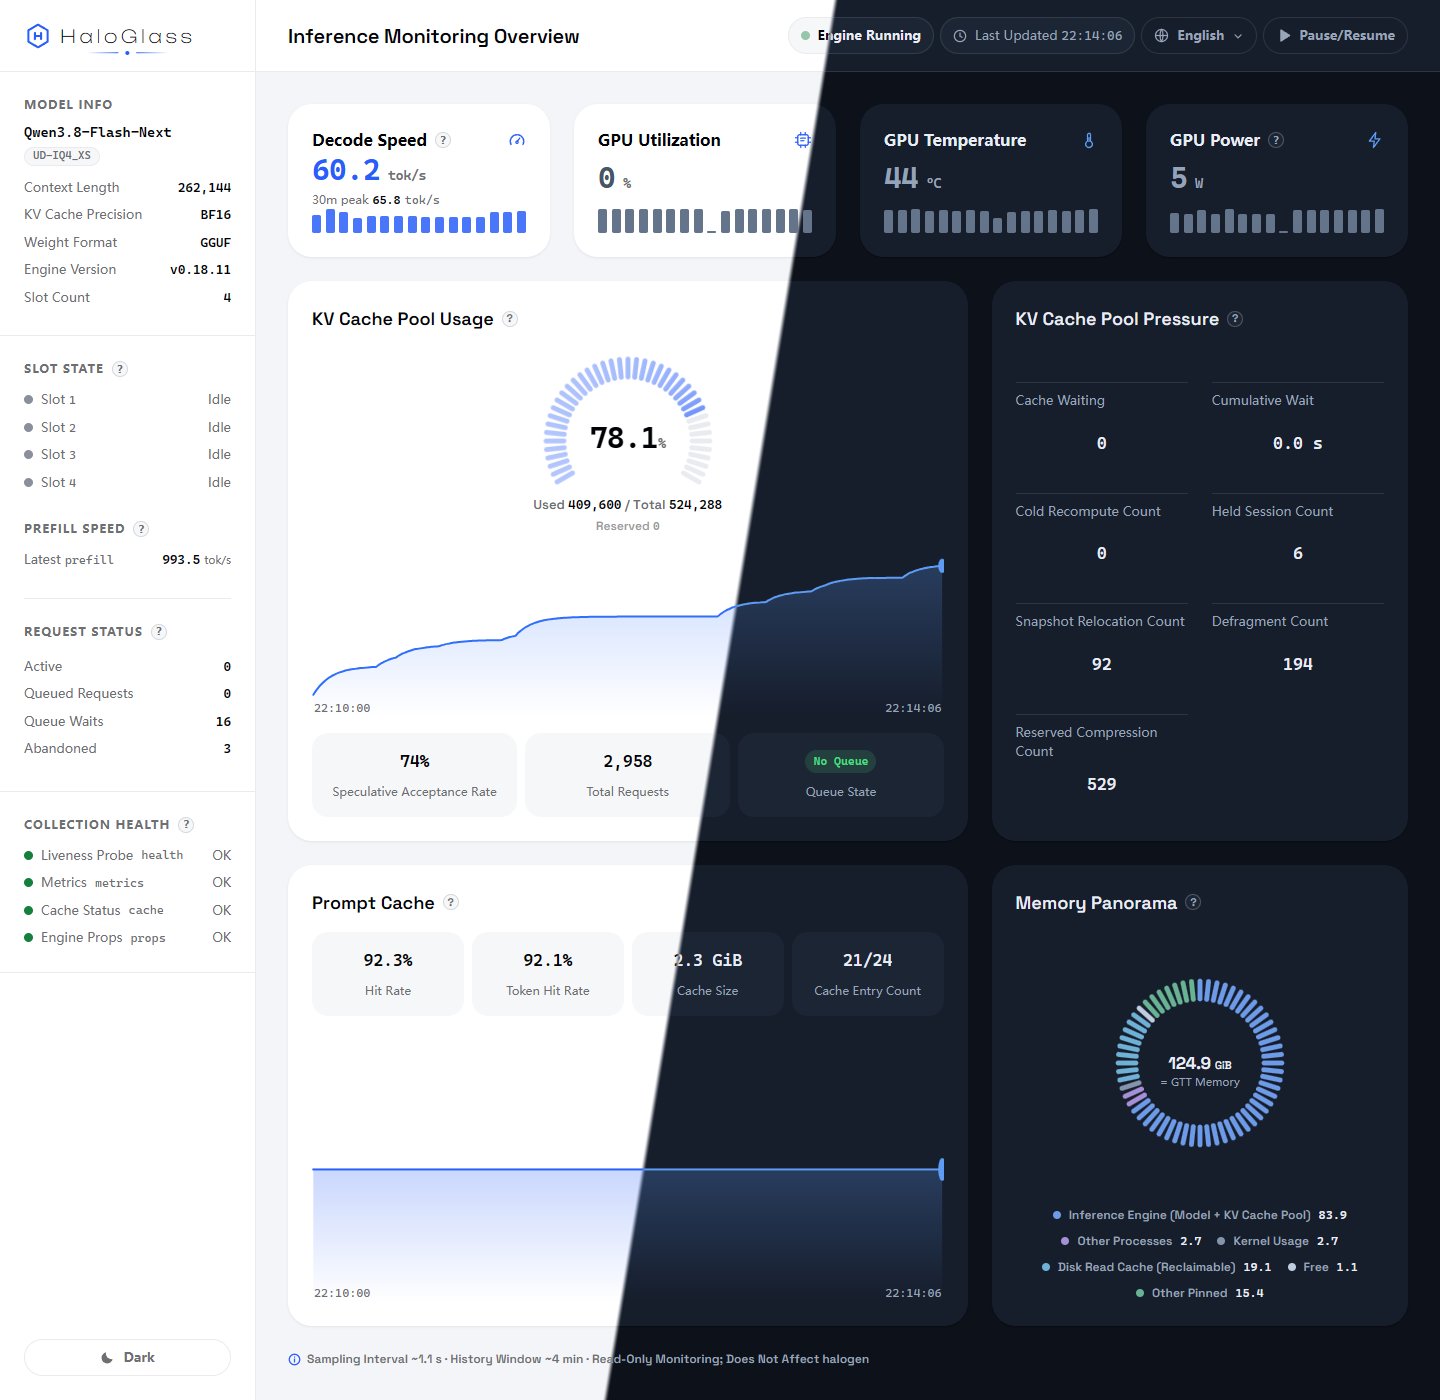
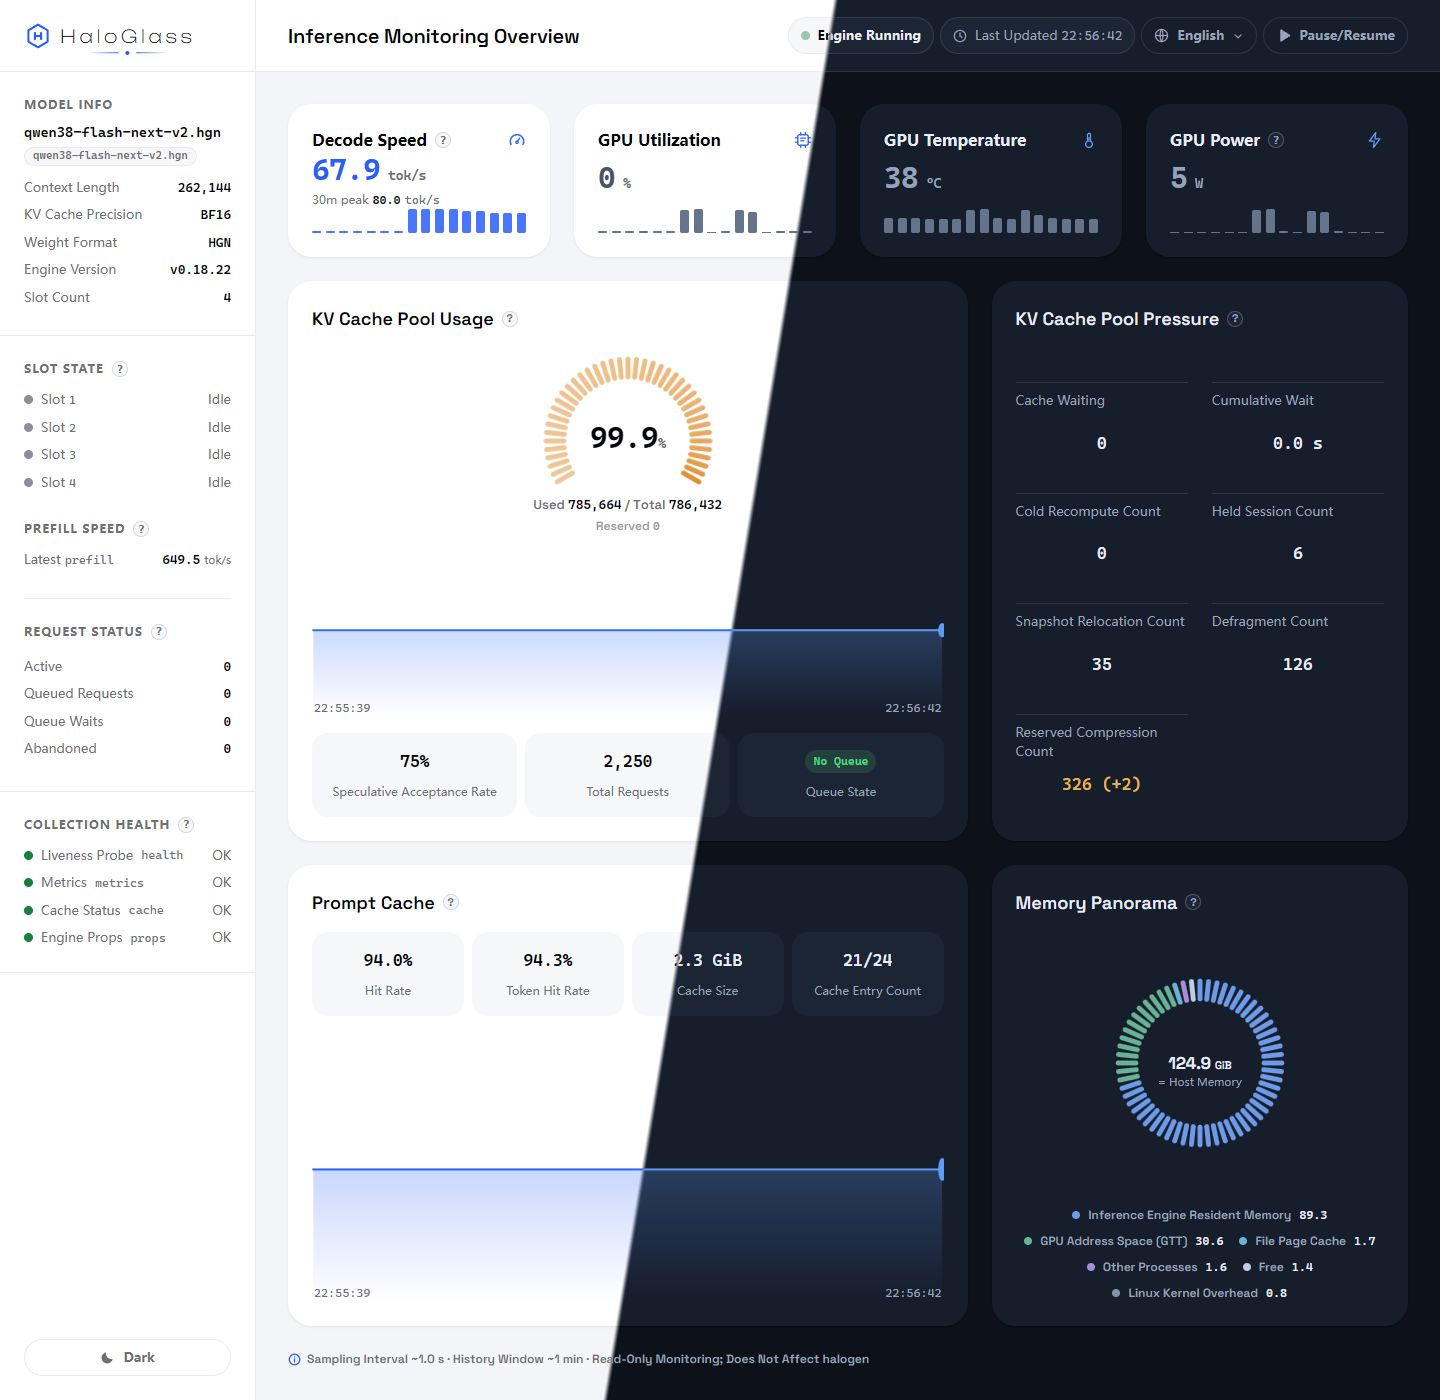
fix(memory-panorama): shorter donut-center label (= Host Memory) to avoid tick overlap, MemTotal definition moved to card help tooltip; refresh hero screenshot (w25 UI, V2 model, live production data)

diff --git a/dash.py b/dash.py
@@ -1144,12 +1144,12 @@ svg.spark{width:100%;height:100%;min-height:0;display:block}
       </div>
       <div class="card" id="c-pano">
         <h2><span data-i18n="memPano">内存全景</span>
-          <button class="qh" type="button" tabindex="0" aria-label="内存全景说明" data-i18n-aria="memPanoAria" data-tip="六段按占用者划分，合计≈总内存（±采样噪声）&#10;GPU 地址空间（GTT）：GPU 驱动为主机内存分配的引擎专用区，与进程驻留内存独立&#10;文件页缓存：内核文件缓存，自动回收，无需干预&#10;可用内存为引擎运行安全余量（MemAvailable 低于 16 GiB 时 halogen 拒绝启动），并非闲置浪费" data-i18n-tip="memPanoTip">?</button>
+          <button class="qh" type="button" tabindex="0" aria-label="内存全景说明" data-i18n-aria="memPanoAria" data-tip="六段按占用者划分，合计≈主机内存总量 MemTotal（±采样噪声）&#10;GPU 地址空间（GTT）：GPU 驱动为主机内存分配的引擎专用区，与进程驻留内存独立&#10;文件页缓存：内核文件缓存，自动回收，无需干预&#10;可用内存为引擎运行安全余量（MemAvailable 低于 16 GiB 时 halogen 拒绝启动），并非闲置浪费" data-i18n-tip="memPanoTip">?</button>
           <span class="badge miss" id="pano-miss" style="visibility:hidden" data-i18n="missMem">内存数据缺失</span></h2>
         <div class="donut" id="pano">
           <div class="prwrap">
             <svg viewBox="0 0 200 200" aria-hidden="true"><g id="pn-ticks"></g></svg>
-            <div class="donut-center"><div class="dn-num"><span id="donut-total" class="skel sm"></span> <span style="font-size:11px;font-weight:600">GiB</span></div><div class="dn-sub" data-i18n="dnSub">= 主机内存（MemTotal）</div></div>
+            <div class="donut-center"><div class="dn-num"><span id="donut-total" class="skel sm"></span> <span style="font-size:11px;font-weight:600">GiB</span></div><div class="dn-sub" data-i18n="dnSub">= 主机内存</div></div>
           </div>
         </div>
         <div class="legend" id="pano-legend"><!-- w25-B：六段图例，渲染时按数值降序重排；tooltip 由 updPano 动态挂 data-tip -->
@@ -1776,11 +1776,11 @@ var I18N={
   promptCacheTip:'Prompt 缓存与内存全景中的「文件页缓存」不同：前者是 halogen 的会话前缀缓存（位于进程内存中），后者是 Linux 内核的文件页缓存（主要为模型查找表）',
  hitRate:'命中率',tokenHitRate:'Token 命中率',cacheSize:'缓存大小',cacheEntries:'缓存条目数',
  memPano:'内存全景',memPanoAria:'内存全景说明',
-  memPanoTip:`六段按占用者划分，合计≈总内存（±采样噪声）
+  memPanoTip:`六段按占用者划分，合计≈主机内存总量 MemTotal（±采样噪声）
 GPU 地址空间（GTT）：GPU 驱动为主机内存分配的引擎专用区，与进程驻留内存独立
 文件页缓存：内核文件缓存，自动回收，无需干预
 可用内存为引擎运行安全余量（MemAvailable 低于 16 GiB 时 halogen 拒绝启动），并非闲置浪费`,
-  missMem:'内存数据缺失',dnSub:'= 主机内存（MemTotal）',
+  missMem:'内存数据缺失',dnSub:'= 主机内存',
   panoEng:'推理引擎驻留内存',panoProc:'其他进程',panoKern:'Linux 内核开销',
   panoRead:'文件页缓存',panoFree:'空闲',panoGtt:'GPU 地址空间（GTT）',
  guideSleep:'模型待命中，开始推理后自动恢复显示数据',
@@ -1854,11 +1854,11 @@ GPU 地址空间（GTT）：GPU 驱动为主机内存分配的引擎专用区，
    promptCacheTip:'Prompt Cache Differs from "File Page Cache" in Memory Panorama: the Former Is halogen’s Session Prefix Cache (in Process Memory); the Latter Is the Linux Kernel’s File Page Cache (Mostly Model Lookup Tables)',
  hitRate:'Hit Rate',tokenHitRate:'Token Hit Rate',cacheSize:'Cache Size',cacheEntries:'Cache Entry Count',
  memPano:'Memory Panorama',memPanoAria:'Memory Panorama Explanation',
-   memPanoTip:`Six segments divided by occupant; sum ≈ total memory (± sampling noise)
+   memPanoTip:`Six segments divided by occupant; sum ≈ total host memory MemTotal (± sampling noise)
  GPU Address Space (GTT): engine-dedicated region of host memory allocated by the GPU driver, accounted independently of process resident memory
  File Page Cache: kernel file cache, reclaimed automatically, no intervention required
  Available memory is the engine’s safety margin (halogen refuses to start when MemAvailable falls below 16 GiB), not idle waste`,
-  missMem:'Memory Data Unavailable',dnSub:'= Host Memory (MemTotal)',
+  missMem:'Memory Data Unavailable',dnSub:'= Host Memory',
   panoEng:'Inference Engine Resident Memory',panoProc:'Other Processes',panoKern:'Linux Kernel Overhead',
   panoRead:'File Page Cache',panoFree:'Free',panoGtt:'GPU Address Space (GTT)',
  guideSleep:'Model Sleeping; Data Resumes When Inference Starts',
@@ -1932,11 +1932,11 @@ GPU 地址空间（GTT）：GPU 驱动为主机内存分配的引擎专用区，
   promptCacheTip:'Prompt 캐시는 메모리 파노라마의 "파일 페이지 캐시"와 다릅니다: 전자는 halogen의 세션 접두어 캐시(프로세스 메모리 내)이며, 후자는 Linux 커널의 파일 페이지 캐시(주로 모델 탐색 테이블)입니다',
  hitRate:'적중률',tokenHitRate:'Token 적중률',cacheSize:'캐시 크기',cacheEntries:'캐시 항목 수',
  memPano:'메모리 파노라마',memPanoAria:'메모리 파노라마 설명',
-  memPanoTip:`6개 구간은 점유자 기준으로 구분하며, 합계 ≈ 총 메모리(± 샘플링 오차)
+  memPanoTip:`6개 구간은 점유자 기준으로 구분하며, 합계 ≈ 총 호스트 메모리 MemTotal(± 샘플링 오차)
  GPU 주소 공간(GTT): GPU 드라이버가 엔진 전용으로 할당한 호스트 메모리로, 프로세스 상주 메모리와 독립적으로 집계됨
  파일 페이지 캐시: 커널 파일 캐시로 자동 회수되며 조치가 불필요함
  가용 메모리는 엔진 실행 안전 여유분입니다(MemAvailable이 16 GiB 미만이면 halogen은 시작을 거부함), 유휴 낭비가 아님`,
-  missMem:'메모리 데이터 없음',dnSub:'= 호스트 메모리(MemTotal)',
+  missMem:'메모리 데이터 없음',dnSub:'= 호스트 메모리',
   panoEng:'추론 엔진 상주 메모리',panoProc:'기타 프로세스',panoKern:'Linux 커널 오버헤드',
   panoRead:'파일 페이지 캐시',panoFree:'빈 영역',panoGtt:'GPU 주소 공간(GTT)',
  guideSleep:'모델 절전 중; 추론이 시작되면 데이터가 자동으로 복구됩니다',
@@ -2010,11 +2010,11 @@ Snapshot-Umzüge/Fragmentierungs-Bereinigungen/Reservierungs-Komprimierungen sin
   promptCacheTip:'Der Prompt-Cache unterscheidet sich vom "Datei-Page-Cache" im Speicher-Panorama: Ersterer ist halogens Sitzungs-Präfix-Cache (im Prozessspeicher), Letzterer der Datei-Page-Cache des Linux-Kernels (hauptsächlich Modell-Lookup-Tabellen)',
  hitRate:'Trefferquote',tokenHitRate:'Token-Trefferquote',cacheSize:'Cache-Größe',cacheEntries:'Cache-Einträge',
  memPano:'Speicher-Panorama',memPanoAria:'Erklärung zum Speicher-Panorama',
-  memPanoTip:`Sechs Segmente nach Besitzer; Summe ≈ Gesamtspeicher (± Abtast-Rauschen)
+  memPanoTip:`Sechs Segmente nach Besitzer; Summe ≈ Host-Gesamtspeicher MemTotal (± Abtast-Rauschen)
  GPU-Adressraum (GTT): von der GPU-Treiber-Zuweisung reservierter Engine-Bereich des Hauptspeichers, unabhängig vom Resident-Speicher der Prozesse gezählt
  Datei-Page-Cache: Kernel-Datei-Cache, automatisch zurückgefordert, kein Eingriff erforderlich
  Verfügbarer Speicher ist die Sicherheitsmarge der Engine (halogen verweigert den Start, wenn MemAvailable unter 16 GiB fällt), keine brachliegende Verschwendung`,
-  missMem:'Speicherdaten nicht verfügbar',dnSub:'= Host-Speicher (MemTotal)',
+  missMem:'Speicherdaten nicht verfügbar',dnSub:'= Host-Speicher',
   panoEng:'Inferenz-Engine-Resident-Speicher',panoProc:'Andere Prozesse',panoKern:'Linux-Kernel-Overhead',
   panoRead:'Datei-Page-Cache',panoFree:'Frei',panoGtt:'GPU-Adressraum (GTT)',
  guideSleep:'Modell im Schlafmodus; Daten werden bei Inferenzbeginn automatisch wieder angezeigt',
